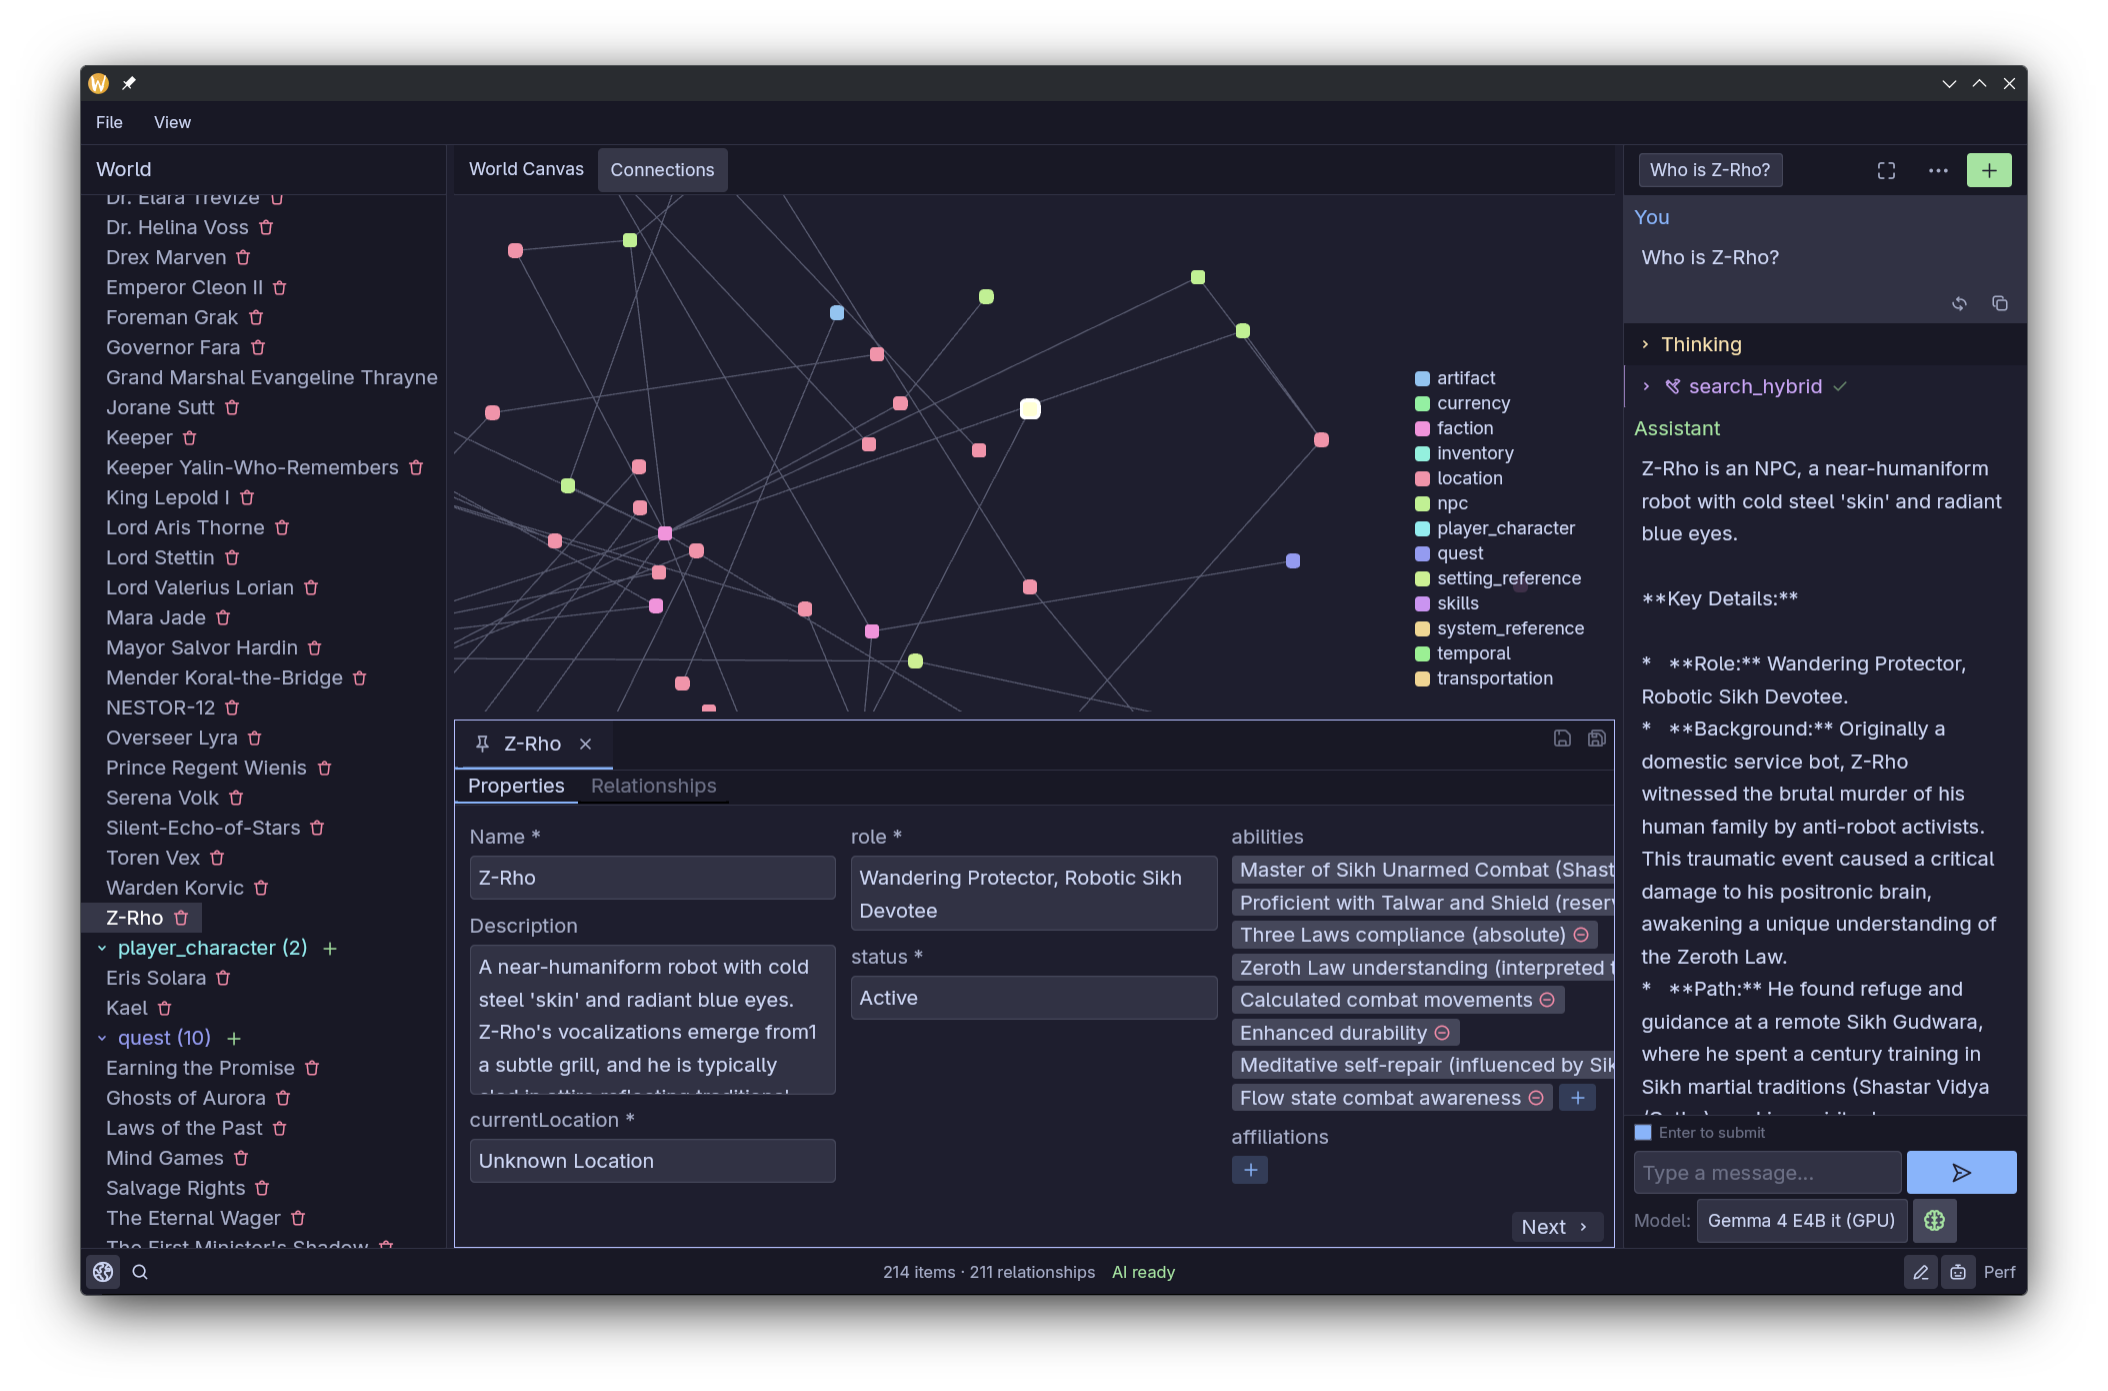
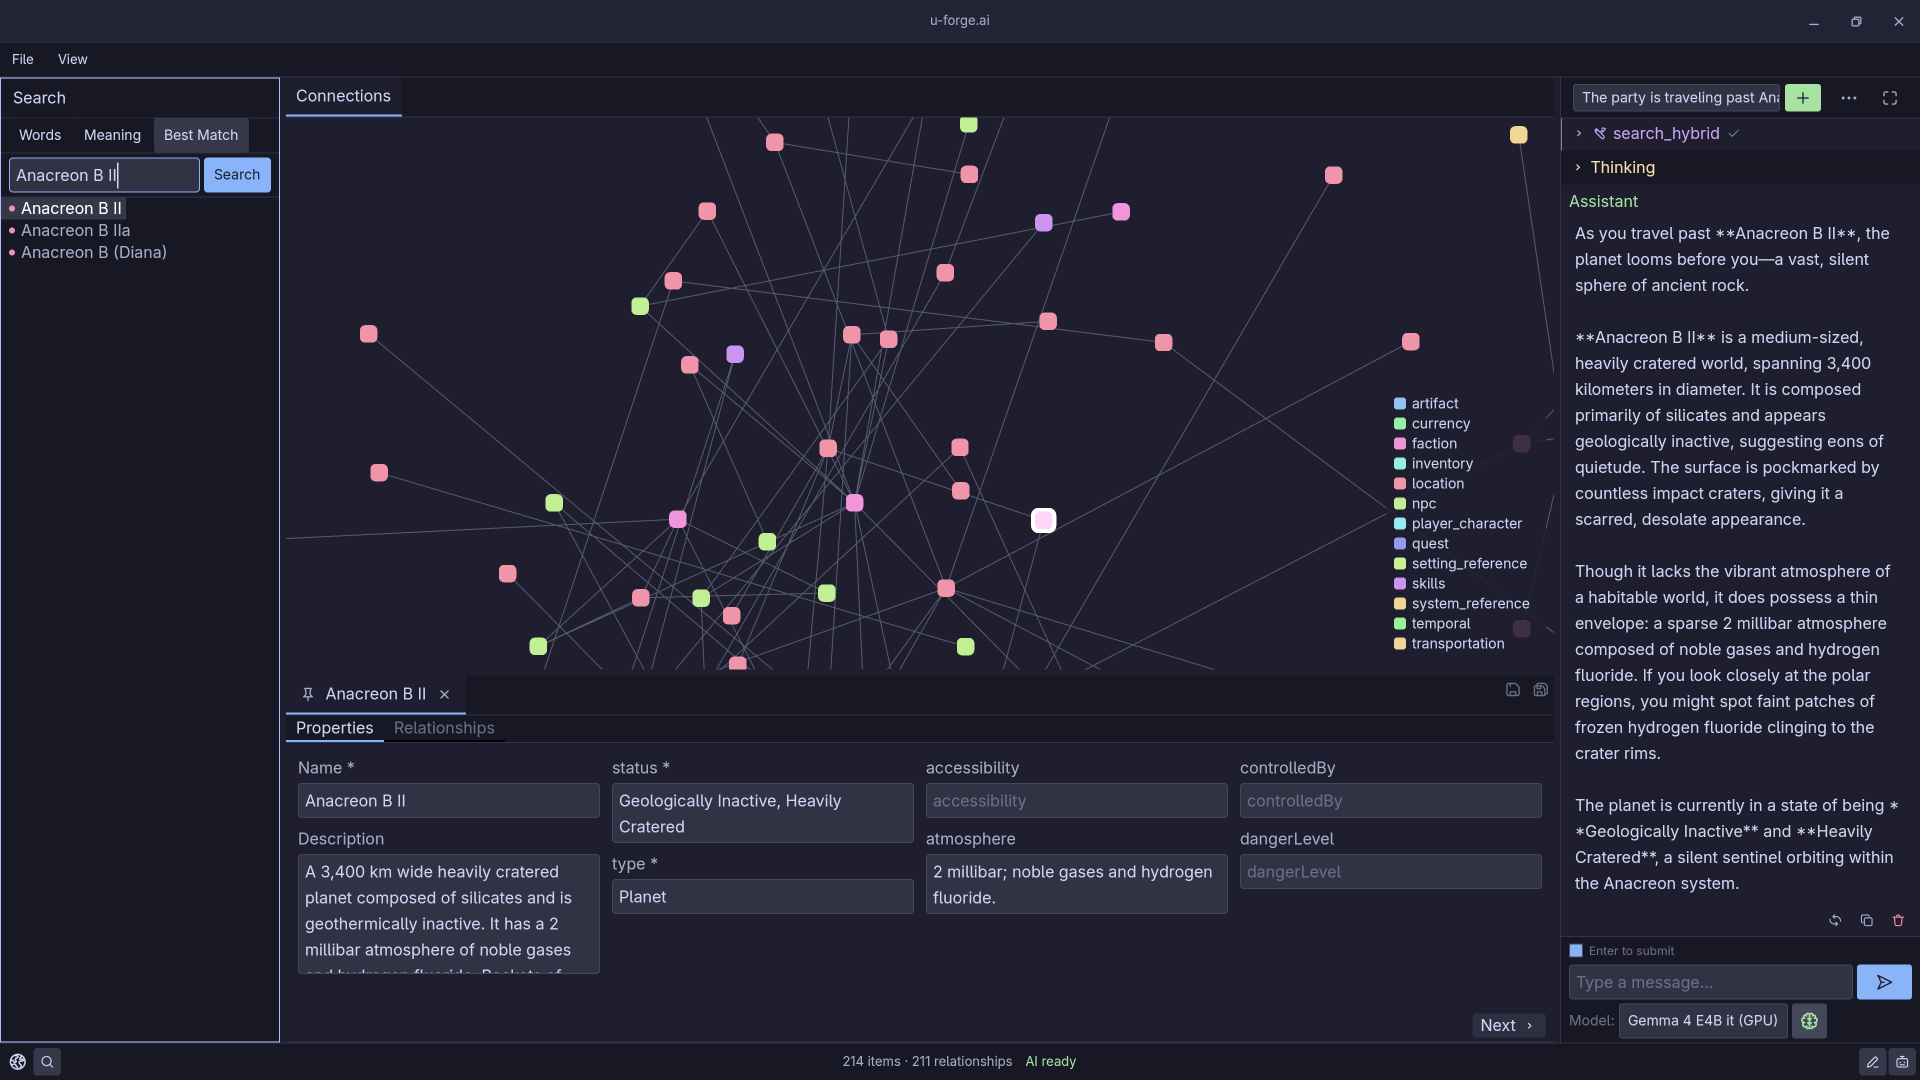
docs: polish launch README

diff --git a/README.md b/README.md
@@ -1,7 +1,11 @@
 # u-forge.ai (Universe Forge)
 
-> **Build a world you can see, search, and talk to.** A local-first creative
-> workspace for game masters.
+> **Turn scattered campaign lore into a world you can see, search, and talk
+> to.**
+>
+> u-forge.ai is a local-first desktop workspace for game masters: map every
+> connection, find the detail you need, and create with an AI assistant that
+> understands the structure of your setting.
 
 ![License](https://img.shields.io/badge/license-MIT-blue.svg)
 ![Status](https://img.shields.io/badge/status-Alpha-yellow.svg)
@@ -9,65 +13,69 @@
 
 ![u-forge.ai showing World Canvas, Details, and Assistant](assets/images/u-forge-ai.png)
 
-## Your setting is more than a stack of notes
+## One world, not a pile of documents
 
-Characters serve factions. Artifacts change hands. Quests cross continents,
-and events from centuries ago still shape the next session. u-forge turns all
-of that lore into a living knowledge graph: one place to create your world,
-follow its relationships, retrieve what matters, and collaborate with a local
-AI assistant that understands the structure you designed.
+Campaign lore grows sideways. Characters serve factions, artifacts change
+hands, quests cross continents, and events from centuries ago still shape the
+next session. Before long, the answer you need is somewhere in your notes—but
+the connections between those notes are harder to see.
 
-- **See the whole setting.** World Canvas turns people, places, factions,
+u-forge turns that sprawl into a living knowledge graph. It gives you one
+focused workspace to build your setting, explore how everything fits together,
+and bring the right lore back when the table needs it.
+
+- **See how the world fits together.** World Canvas turns people, places, factions,
   quests, events, and anything else you define into an explorable relationship
   map.
-- **Make the world model yours.** Schemas define the kinds of things in your
+- **Shape it around your campaign.** Schemas define the kinds of things in your
   setting, the details they carry, and the relationships they allow. The editor
   adapts to your campaign instead of forcing every world into the same sheet.
-- **Find lore the way you remember it.** Exact-word, semantic, and hybrid
-  search bring the right pieces back even when you cannot remember where you
-  wrote them.
-- **Ask questions in context.** The Assistant answers from your own setting,
-  shows when it searches the graph, and keeps conversations beside the world
-  they are about.
-- **Create with the Assistant.** Compatible local models can search, create,
-  and update world items and relationships while respecting your schemas.
-- **Keep imperfect data visible.** Imports are validated against your world
-  model, with malformed records and ambiguous relationships reported instead
-  of silently changing its shape.
+- **Find lore the way you remember it.** Exact-word, semantic, and hybrid search
+  surface the right pieces even when you cannot remember where you wrote them.
+- **Work with an assistant that knows your world.** Compatible local models can
+  search your setting, answer in context, and create or update items and
+  relationships while respecting your schemas.
+- **Know what made it into your world.** Imports are validated against your
+  schemas. Malformed records and ambiguous relationships are reported instead
+  of silently changing the shape of your data.
 
-## Your worlds belong to you
+## Local-first. AI-optional. Yours.
 
-u-forge is local-first. Worlds live in local SQLite databases and require no
-account, subscription, or hosted service. Graph exploration, editing,
-import/export, and word search keep working without an AI server.
+Your worlds live in local SQLite databases. u-forge requires no account,
+subscription, or hosted service, and graph exploration, editing, import/export,
+and full-text search keep working without an AI server.
 
 Optional AI runs through
 [Lemonade Server](https://github.com/lemonade-sdk/lemonade). On Linux x86_64,
 u-forge can provision and manage a private Lemonade runtime; it can also use a
-separately managed server. World data leaves your machine only when you
+separately managed server. Your world data stays on your machine unless you
 explicitly connect u-forge to a non-local endpoint.
 
 World, Search, Details, Assistant, and the permanent World Canvas stay together
-in a focused native workspace. The included Foundation setting offers a quick
-way to explore, or you can start with your own schemas and JSONL data.
+in one native workspace. Explore the included Foundation setting to see it in
+action, or begin with your own schemas and JSONL data.
 
 ## The road to 1.0
 
-The roadmap expands the same foundation rather than replacing it: structured
-world data becomes more expressive, easier to navigate, and increasingly useful
-at the table.
+u-forge is growing into more than a note vault with an assistant attached. The
+vision for 1.0 is a connected campaign workspace where the world graph, its
+history and geography, what happened at the table, and the rules behind it all
+reinforce one another.
 
-| Release | Focus |
-|---------|-------|
-| **v0.1.2** | Another refinement cycle for the core worldbuilding experience. |
-| **v0.2** | Schema-embedded SVG icons replace colored squircles in the World panel and graph view. Any node can override its schema icon with its own embedded SVG. |
-| **v0.3** | Embedding and chunking refactor for more intelligent semantic encoding and efficient retrieval. |
-| **v0.4** | Timeline view with temporal nodes in a dedicated top or bottom strip and three lanes—epochs, eras, and events—for nuanced histories, narrative arcs, and systemic impact. |
-| **v0.5** | World map view that uses `located_in` relationships to place connected entities automatically and turn existing world data into a richer map. |
-| **v0.6** | Session diarization and transcription, preserving play sessions so they can be recalled and converted into world data with the Assistant. |
-| **v0.7–v0.8** | Rules from PDF: apply the retrieval refactor to table-heavy TTRPG rulebooks, build a dedicated rules knowledge graph, and link sourced rules directly to your world. |
-| **v0.9** | Refinement release. |
-| **v1.0** | Feature complete. Your worlds await! |
+Each release builds toward that vision without giving up the local-first
+foundation:
+
+| Release | What it adds to the world |
+|---------|---------------------------|
+| **v0.1.2** | A focused refinement cycle makes the core worldbuilding experience smoother and more dependable. |
+| **v0.2** | Schema-embedded SVG icons give every kind of world item a visual identity across the World panel and graph, with per-item overrides when something should stand apart. |
+| **v0.3** | Smarter embedding and chunking make semantic recall more accurate and efficient as worlds grow. |
+| **v0.4** | A dedicated timeline turns epochs, eras, and events into an explorable history of narrative arcs and systemic consequences. |
+| **v0.5** | A world map uses `located_in` relationships to place connected entities automatically, letting existing world data reveal its geography. |
+| **v0.6** | Session diarization and transcription preserve what happened at the table so the Assistant can recall it and help turn play into lasting world data. |
+| **v0.7–v0.8** | Rules from PDF bring table-heavy TTRPG books into a dedicated rules graph, with sourced rules linked directly to the world they govern. |
+| **v0.9** | A focused refinement release brings the complete experience together. |
+| **v1.0** | A complete local-first campaign workspace connects preparation, world knowledge, and play. Your worlds await. |
 | **v1.x** | Scheming intensifies… |
 
 Release contents and ordering may evolve as each feature meets real worlds and
@@ -75,8 +83,11 @@ real tables.
 
 ## Try v0.1.1
 
-Linux x86_64 releases are distributed as an AppImage with a companion SHA-256
-checksum. Download both files from the release, then verify and run them:
+u-forge is currently alpha software. The packaged release targets Linux x86_64
+and is distributed as an AppImage with a companion SHA-256 checksum.
+
+**[Download the latest release](https://github.com/th3raid0r/u-forge.ai/releases/latest)**,
+grab both files, then verify and run the AppImage:
 
 ```bash
 sha256sum --check u-forge-0.1.1-x86_64.AppImage.sha256
@@ -103,11 +114,19 @@ copy remain yours across later launches.
 A new profile opens a guided world-creation flow. Choose a schema directory
 and, optionally, an initial JSONL data file. Lemonade discovery and downloads
 continue in the background, so a schema-only world can be created without
-waiting for AI models.
+waiting for AI models. The included defaults are the quickest way to start
+exploring.
 
 Use **File → Import Schema…** and **File → Import Data…** for later imports.
 Select an item in World or on the canvas, edit it in Details, and save the
 change when it is ready.
+
+## Support u-forge
+
+If u-forge helps you build better worlds, you can support its continued
+development on Ko-fi.
+
+<a href='https://ko-fi.com/P4U0251C4T' target='_blank'><img height='36' style='border:0px;height:36px;' src='https://storage.ko-fi.com/cdn/kofi6.png?v=6' border='0' alt='Buy Me a Coffee at ko-fi.com' /></a>
 
 ## Project documentation
 
